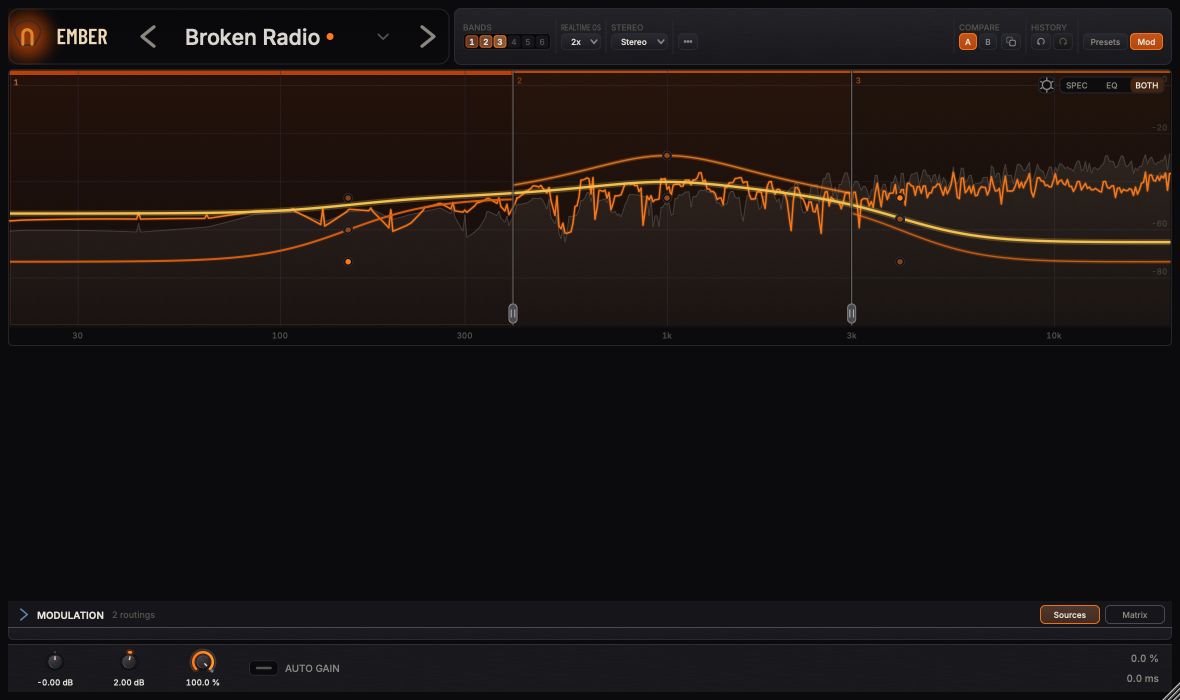
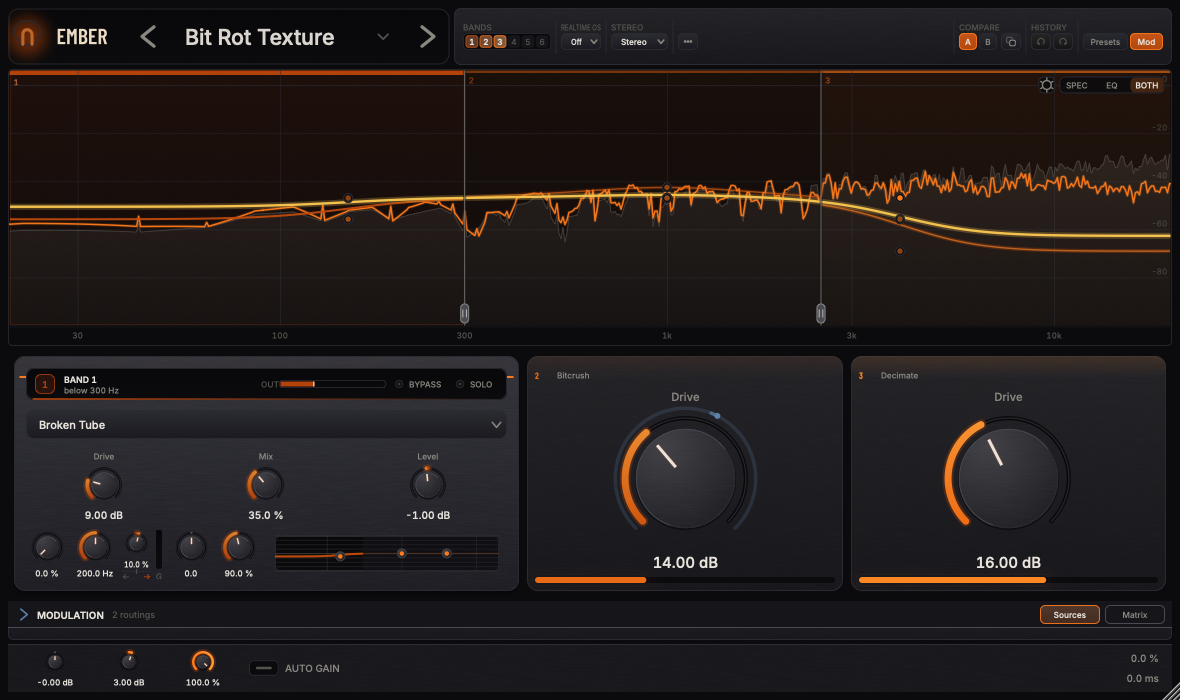
The band strip must not need an animation to have run
Every module's width came from an Animated weight that starts at zero and
only reaches its target once the motion clock has ticked. The first layout
therefore found a total weight of zero, had nothing to share out, and
returned before assigning any module its bounds.

A host ticks its display clock a frame later and the strip fills, so this
was never visible in use. Where the clock never ticks — an offscreen
render, a peer that never arrives — it is permanent: the plugin's entire
control surface is a blank rectangle. Both documentation screenshots were
rendered that way and shipped with the hole in them. They are retaken here.

The steady state must not depend on an animation running, so the layout
snaps the weights to their targets rather than giving up. Animation still
applies to every later change, which is what it is for.

The regression test asserts bounds rather than existence. The old test
already found every one of these controls — present, parented, correct and
zero pixels wide — which is why it passed through two releases.

diff --git a/tests/test_tutorials.cpp b/tests/test_tutorials.cpp
@@ -10,6 +10,7 @@
 #include "gui/tutorial/TourLibrary.h"
 #include "gui/tutorial/TourTargets.h"
 #include "plugin/PluginEditor.h"
+#include "plugin/ParameterIDs.h"
 #include "plugin/PluginProcessor.h"
 
 using namespace ember;
@@ -38,6 +39,21 @@ bool findID(juce::Component& c, const juce::String& id)
             return true;
 
     return false;
+}
+
+/** The component claiming `id`, or nullptr. `findID` answers whether a tour's
+    target exists; this answers what it is, which is what a question about size
+    or visibility needs. */
+juce::Component* componentWithID(juce::Component& c, const juce::String& id)
+{
+    if (c.getComponentID() == id)
+        return &c;
+
+    for (auto* child : c.getChildren())
+        if (auto* found = componentWithID(*child, id))
+            return found;
+
+    return nullptr;
 }
 } // namespace
 
@@ -120,6 +136,51 @@ TEST_CASE("every tour target resolves to a real component", "[tutorials]")
          << missing.joinIntoString("\n") << "\n\navailable ids:\n"
          << available.joinIntoString("\n"));
     REQUIRE(missing.isEmpty());
+}
+
+TEST_CASE("the band strip lays out without the motion clock", "[tutorials][gui]")
+{
+    // Existing well before this test: every band module's width came from an
+    // `Animated` weight that starts at zero and only reaches its target once a
+    // `VBlankAttachment` frame has fired. The first layout therefore found no
+    // width to share out and returned early, leaving the strip empty.
+    //
+    // In a host that is one invisible frame. Anywhere the clock never ticks -
+    // an offscreen render, a peer that never arrives - it is permanent, and the
+    // plugin's entire control surface is a blank rectangle. Two releases of
+    // documentation screenshots shipped with that hole in them.
+    //
+    // No VBlank fires in this process either, which is exactly why the test can
+    // see it: the steady state must not depend on an animation having run.
+    EmberAudioProcessor processor;
+    processor.prepareToPlay(48000.0, 512);
+
+    std::unique_ptr<juce::AudioProcessorEditor> editor(processor.createEditor());
+    REQUIRE(editor != nullptr);
+
+    editor->setSize(1200, 720);
+    editor->setSize(1180, 700);
+
+    auto* bandCount = processor.getAPVTS().getRawParameterValue(ember::pid::numBands);
+    REQUIRE(bandCount != nullptr);
+
+    const int active = static_cast<int>(*bandCount);
+    REQUIRE(active >= 1);
+
+    for (int band = 0; band < active; ++band)
+    {
+        const auto id = TourTargets::bandDrive(band);
+        auto* drive = componentWithID(*editor, id);
+
+        INFO("band " << (band + 1) << " drive control '" << id << "'");
+        REQUIRE(drive != nullptr);
+
+        // Bounds, not just existence. The bug left every one of these present,
+        // parented and correct - and zero pixels wide.
+        REQUIRE(drive->getWidth() > 0);
+        REQUIRE(drive->getHeight() > 0);
+        REQUIRE(drive->isVisible());
+    }
 }
 
 TEST_CASE("every parameter a tour names exists", "[tutorials]")

diff --git a/src/gui/BandPanel.cpp b/src/gui/BandPanel.cpp
@@ -758,8 +758,26 @@ void BandPanel::resized()
     for (int band = 0; band < active; ++band)
         totalWeight += moduleWeight[idx(band)].getValue();
 
+    // The weights start at zero and only reach their targets once the motion
+    // clock has ticked, so the FIRST layout finds no width to share out. In a
+    // host that is one frame of an empty strip and nobody sees it; anywhere the
+    // clock never ticks - an offscreen render, a peer that never arrives - the
+    // strip stays empty forever, which is how this was found. The steady state
+    // must not depend on an animation running, so snap to it and carry on.
+    // Animation still applies to every later change, which is what it is for.
     if (totalWeight < 0.1f)
-        return;
+    {
+        totalWeight = 0.0f;
+
+        for (int band = 0; band < kMaxBands; ++band)
+            moduleWeight[idx(band)].snapToTarget();
+
+        for (int band = 0; band < active; ++band)
+            totalWeight += moduleWeight[idx(band)].getValue();
+
+        if (totalWeight < 0.1f)
+            return;
+    }
     const int available = strip.getWidth() - moduleGap * juce::jmax(0, active - 1);
 
     if (available < active * 24)

diff --git a/CHANGELOG.md b/CHANGELOG.md
@@ -11,9 +11,9 @@ Nothing yet.
 
 ## [2.1.1] — 2026-09-22
 
-Fixes the four things 2.1.0 listed as known limitations. Each was documented
+Fixes the four things 2.1.0 listed as known limitations — each was documented
 rather than repaired, which is better than hiding them but not better than
-fixing them.
+fixing them — and one that nothing had listed at all.
 
 ### Fixed
 
@@ -29,6 +29,13 @@ fixing them.
 - **The XY pad's Y axis works.** A pad has two dimensions but a modulation
   source emits one value, and the axis selector defaulted to X with nothing
   able to change it. There is an **XY Axis** parameter now.
+- **The band strip cannot come up empty.** Every module's width came from an
+  animated weight starting at zero, so the first layout had nothing to share
+  out and gave up. A host ticks its display clock a frame later and fills the
+  strip, which is why this was never visible in use — but the steady state must
+  not depend on an animation having run, and anywhere the clock does not tick
+  the plugin's whole control surface stayed blank. The documentation
+  screenshots were rendered that way and have been retaken.
 
 ### Known
 
